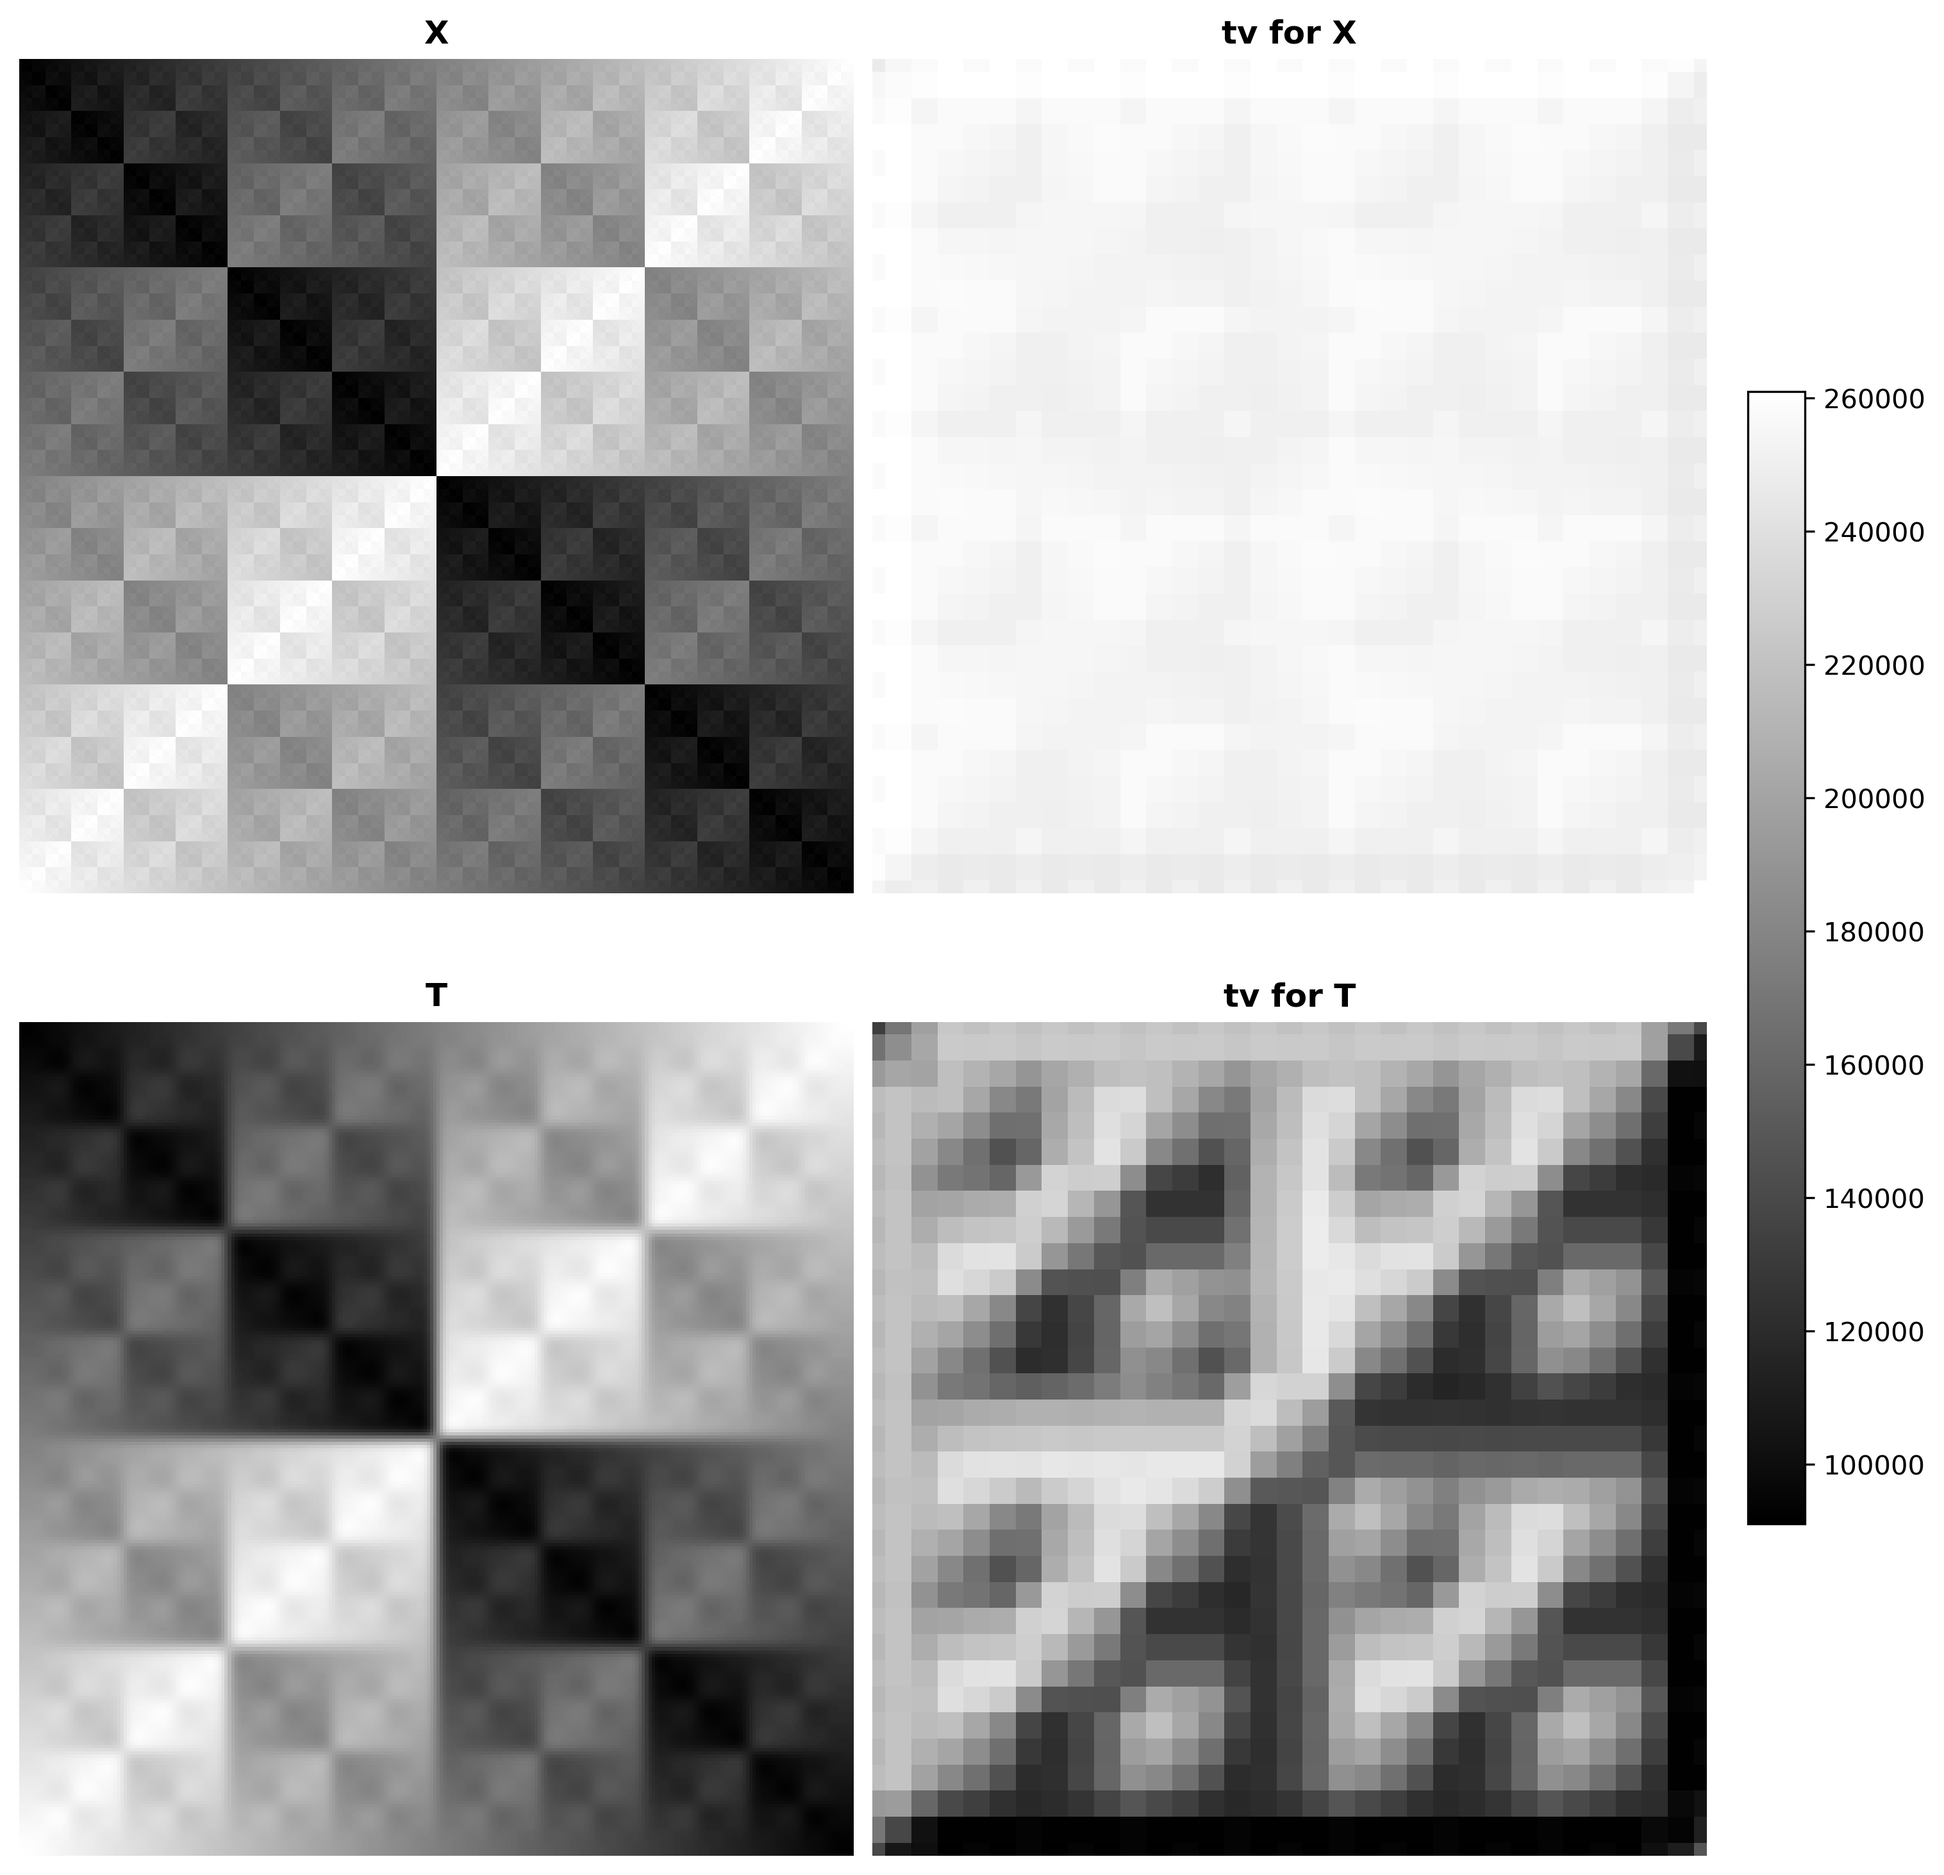
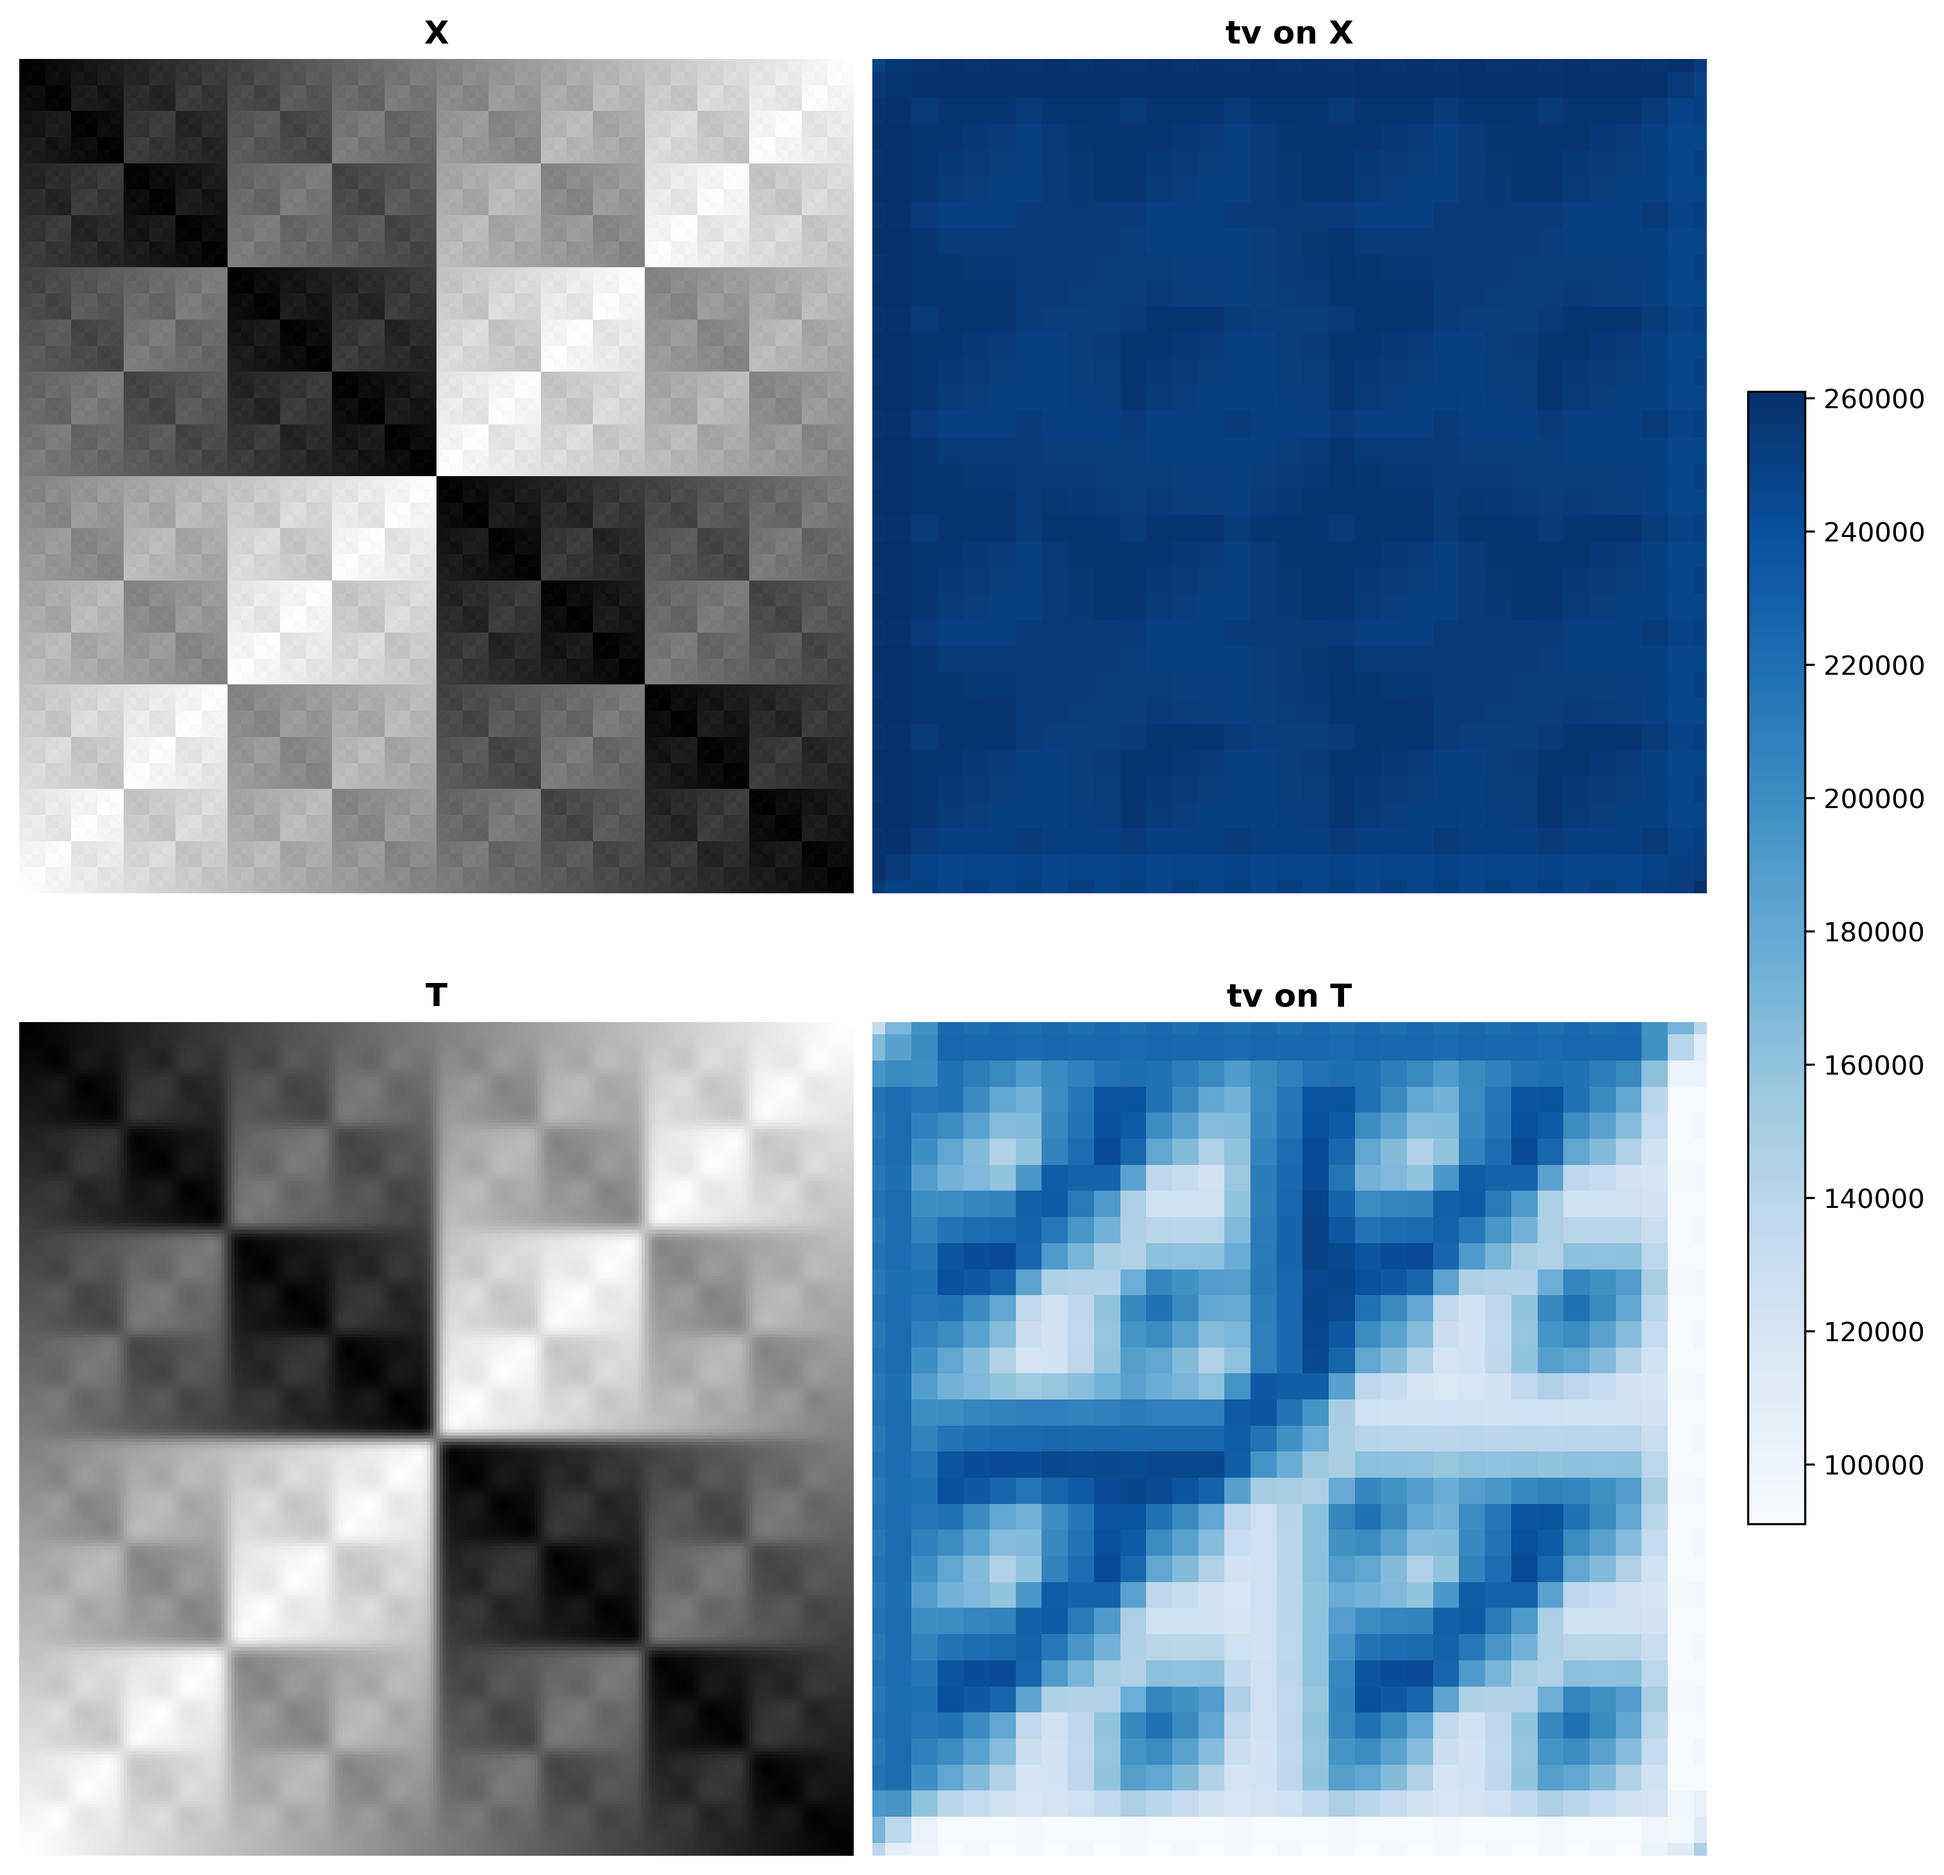
Updated heatmaps visualization to add overlay option, colorbars, and better layout for all metrics plot

diff --git a/src/benchmark.py b/src/benchmark.py
@@ -30,6 +30,8 @@ parser.add_argument('--heatmap', action='store_true',  # default false
 # Visualization configuration
 parser.add_argument('--visualize', action='store_true',  # default false
                     help='visualize and save the operations')
+parser.add_argument('--overlay', action='store_true',  # default false
+                    help='if visualizing heatmaps, plot output as overlay on top of original image')
 parser.add_argument('-o', '--output', type=str, default='../media/output.png',
                     help='name of output file visualization')
 
@@ -51,28 +53,67 @@ def visualize(data, fname, args):
 
 
 def heatmap_visualize(data, fname, args):
-    cmap = 'gray'
+    bg_cmap = 'gray'
+    hm_cmap = 'Blues'
+    hm_alpha = 0.7 if args.overlay else 1.
     if args.metric == 'all':
+        cb_shrink = 0.6
+
         if data['T'] is None:
             list_of_metrics = single_metrics
+            tot_num_to_plot = 2 + len(single_metrics)
         else:
             list_of_metrics = metric_f.keys()
+            tot_num_to_plot = 2 + len(list_of_metrics) + len(single_metrics)
+
+        possible_dims = [(i, int(np.ceil(tot_num_to_plot / i))) for i in range(4, int(np.ceil(np.sqrt(tot_num_to_plot) + 1)))]
+        dims = possible_dims[np.argmin([
+            (tuple[0]*tuple[1] - tot_num_to_plot)
+            + 0.1*(np.abs(tuple[0] - tuple[1]))
+            for tuple in possible_dims
+        ])]
 
         fig, axs = plt.subplots(
-            int(np.ceil(np.sqrt(len(list_of_metrics)))),
-            int(np.ceil(np.sqrt(len(list_of_metrics)))),
-            figsize=(12, 12)
+            dims[0],
+            dims[1],
+            figsize=(3*dims[1], 3*dims[0]),
+            layout='constrained'
         )
         raveled_axs = np.ravel(axs)
-        for i, metric in enumerate(list_of_metrics):
+        raveled_axs[0].imshow(data['X'], cmap=bg_cmap)
+        raveled_axs[0].set_title('X')
+        raveled_axs[1].imshow(data['T'], cmap=bg_cmap)
+        raveled_axs[1].set_title('T')
+        i = 2
+        for metric in list_of_metrics:
             if metric not in single_metrics:
-                raveled_axs[i].imshow(data['metrics'][metric], cmap=cmap)
+                if args.overlay:
+                    raveled_axs[i].imshow(data['T'], cmap=bg_cmap)
+                metric_plot = raveled_axs[i].imshow(data['metrics'][metric], alpha=hm_alpha, cmap=hm_cmap)
+                raveled_axs[i].set_title(metric)
+                fig.colorbar(metric_plot, ax=raveled_axs[i], shrink=cb_shrink)
+                i += 1
             else:
                 if data['T'] is not None:
-                    raveled_axs[i].imshow(data['metrics'][metric][1], cmap=cmap)
+                    if args.overlay:
+                        raveled_axs[i].imshow(data['X'], cmap=bg_cmap)
+                    metric_plot = raveled_axs[i].imshow(data['metrics'][metric][0], alpha=hm_alpha, cmap=hm_cmap)
+                    raveled_axs[i].set_title(metric + ' on X')
+                    fig.colorbar(metric_plot, ax=raveled_axs[i], shrink=cb_shrink)
+                    i += 1
+                    if args.overlay:
+                        raveled_axs[i].imshow(data['T'], cmap=bg_cmap)
+                    metric_plot = raveled_axs[i].imshow(data['metrics'][metric][1], alpha=hm_alpha, cmap=hm_cmap)
+                    raveled_axs[i].set_title(metric + ' on T')
+                    fig.colorbar(metric_plot, ax=raveled_axs[i], shrink=cb_shrink)
+                    i += 1
                 else:
-                    raveled_axs[i].imshow(data['metrics'][metric][0], cmap=cmap)
-            raveled_axs[i].set_title(metric)
+                    if args.overlay:
+                        raveled_axs[i].imshow(data['T'], cmap=bg_cmap)
+                    metric_plot = raveled_axs[i].imshow(data['metrics'][metric][0], alpha=hm_alpha, cmap=hm_cmap)
+                    raveled_axs[i].set_title(metric)
+                    fig.colorbar(metric_plot, ax=raveled_axs[i], shrink=cb_shrink)
+                    i += 1
 
         for ax in raveled_axs:
             ax.axis('off')
@@ -80,9 +121,11 @@ def heatmap_visualize(data, fname, args):
     else:
         if args.metric not in single_metrics:
             fig, axs = plt.subplots(1, 3, figsize=(12, 4))
-            axs[0].imshow(data['X'], cmap=cmap)
-            axs[1].imshow(data['T'], cmap=cmap)
-            axs[2].imshow(data['metrics'], cmap=cmap)
+            axs[0].imshow(data['X'], cmap=bg_cmap)
+            axs[1].imshow(data['T'], cmap=bg_cmap)
+            if args.overlay:
+                axs[2].imshow(data['T'], cmap=bg_cmap)
+            axs[2].imshow(data['metrics'], alpha=hm_alpha, cmap=hm_cmap)
 
             axs[0].set_title('X', weight='bold')
             axs[1].set_title('T', weight='bold')
@@ -94,16 +137,20 @@ def heatmap_visualize(data, fname, args):
             cmin = min(data['metrics'][0].min(), data['metrics'][1].min())
             cmax = max(data['metrics'][0].max(), data['metrics'][1].max())
             fig, axs = plt.subplots(2, 2, figsize=(10, 10), layout='constrained')
-            axs[0, 0].imshow(data['X'], cmap=cmap)
-            axs[1, 0].imshow(data['T'], cmap=cmap)
-            axs[0, 1].imshow(data['metrics'][0], cmap=cmap, clim=(cmin, cmax))
-            plt2 = axs[1, 1].imshow(data['metrics'][1], cmap=cmap, clim=(cmin, cmax))
+            axs[0, 0].imshow(data['X'], cmap=bg_cmap)
+            axs[1, 0].imshow(data['T'], cmap=bg_cmap)
+            if args.overlay:
+                axs[0, 1].imshow(data['X'], cmap=bg_cmap)
+            axs[0, 1].imshow(data['metrics'][0], alpha=hm_alpha, cmap=hm_cmap, clim=(cmin, cmax))
+            if args.overlay:
+                axs[1, 1].imshow(data['T'], cmap=bg_cmap)
+            plt2 = axs[1, 1].imshow(data['metrics'][1], alpha=hm_alpha, cmap=hm_cmap, clim=(cmin, cmax))
             fig.colorbar(plt2, ax=axs[:, 1], shrink=0.6)
 
             axs[0, 0].set_title('X', weight='bold')
             axs[1, 0].set_title('T', weight='bold')
-            axs[0, 1].set_title(args.metric + ' for X', weight='bold')
-            axs[1, 1].set_title(args.metric + ' for T', weight='bold')
+            axs[0, 1].set_title(args.metric + ' on X', weight='bold')
+            axs[1, 1].set_title(args.metric + ' on T', weight='bold')
 
             for ax in np.ravel(axs):
                 ax.axis('off')

diff --git a/README.md b/README.md
@@ -45,6 +45,7 @@ optional arguments:
                         evaluation metric to compute
   --heatmap             compute sharpness heatmap(s) rather than global metric
   --visualize           visualize and save the operations
+  --overlay             only relevant if both heatmap and visualize are true; plots heatmaps on top of input data
   -o OUTPUT, --output OUTPUT
                         name of output file visualization
 ```
@@ -78,10 +79,10 @@ $ python benchmark.py -s xor -t blur -m all --visualize -o ../media/synthetic.pn
 ```
 ![](media/synthetic.png)
 
-We can re-run the above example, but with local computations of heatmaps instead of global metrics.
+We can re-run the above example, but with local computations of heatmaps overlaid on top of input data instead of global metrics.
 
 ```bash
-$ python benchmark.py -s xor -t blur -m all --heatmap --visualize -o ../media/synthetic_heatmaps.png
+$ python benchmark.py -s xor -t blur -m all --heatmap --visualize --overlay -o ../media/synthetic_heatmaps.png
 Heatmap will be computed with blocks of size 32, and has image padding of length 16
 => mse average: 39.881929874420166
 => mae average: 111.61909246444702
@@ -113,7 +114,7 @@ Loading data from ../data/kh_ABI_C13.nc (sample 0)
 ```
 ![](media/output.png)
 
-Generate synthetic again, but only compute total variation as a heatmap.
+Generate synthetic data again, but only compute total variation as a heatmap.
 ```bash
 $ python benchmark.py -s='xor' -t='blur' -m='tv' -o='../media/synth_tv.png' --heatmap --visualize
 Heatmap will be computed with blocks of size 32, and has image padding of length 16
